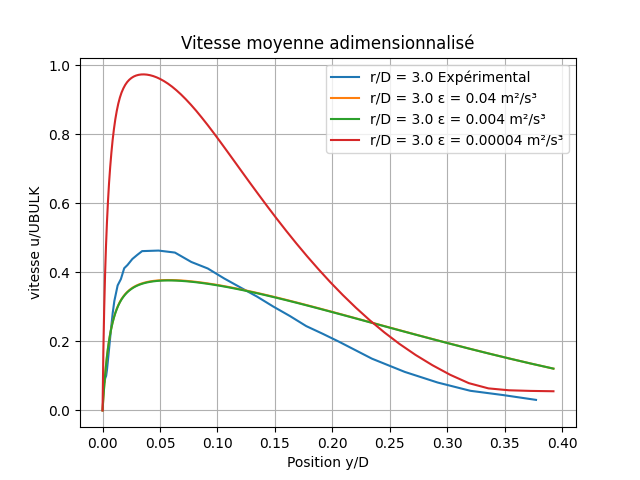
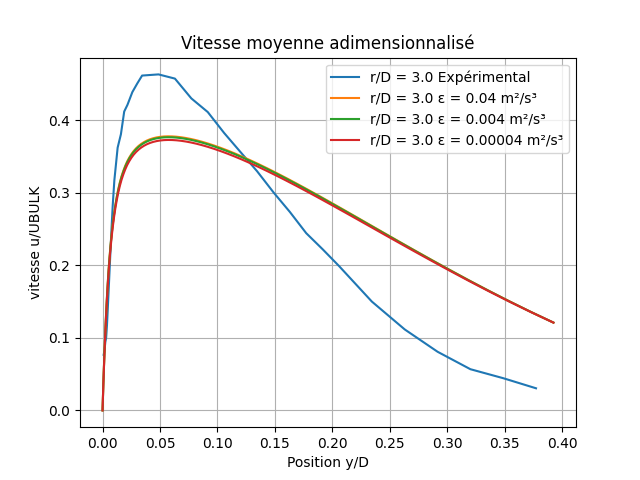
lundi

diff --git a/traitement_eps.py b/traitement_eps.py
@@ -37,7 +37,7 @@ position_mu_eps2_adim_30, u_mean_eps2_adim_30 = sort(position_mu_eps2_adim_30, u
 
 # Inlet 3 eps 0.00004 
 position_mu_eps3_dim_10, u_mean_eps3_dim_10, position_mu_eps3_adim_10 , u_mean_eps3_adim_10 = lecture_simu('eps_0.00004_u_mean_rD_1.xy', 0.208, 1/D, 0, 1/u_bulk)
-position_mu_eps3_dim_30, u_mean_eps3_dim_30, position_mu_eps3_adim_30 , u_mean_eps3_adim_30 = lecture_simu('eps_0.00004_u_mean_rD_1.xy', 0.208, 1/D, 0, 1/u_bulk)
+position_mu_eps3_dim_30, u_mean_eps3_dim_30, position_mu_eps3_adim_30 , u_mean_eps3_adim_30 = lecture_simu('eps_0.00004_u_mean_rD_3.xy', 0.208, 1/D, 0, 1/u_bulk)
 
 position_mu_eps3_adim_10, u_mean_eps3_adim_10 = sort(position_mu_eps3_adim_10, u_mean_eps3_adim_10)
 position_mu_eps3_adim_30, u_mean_eps3_adim_30 = sort(position_mu_eps3_adim_30, u_mean_eps3_adim_30)
